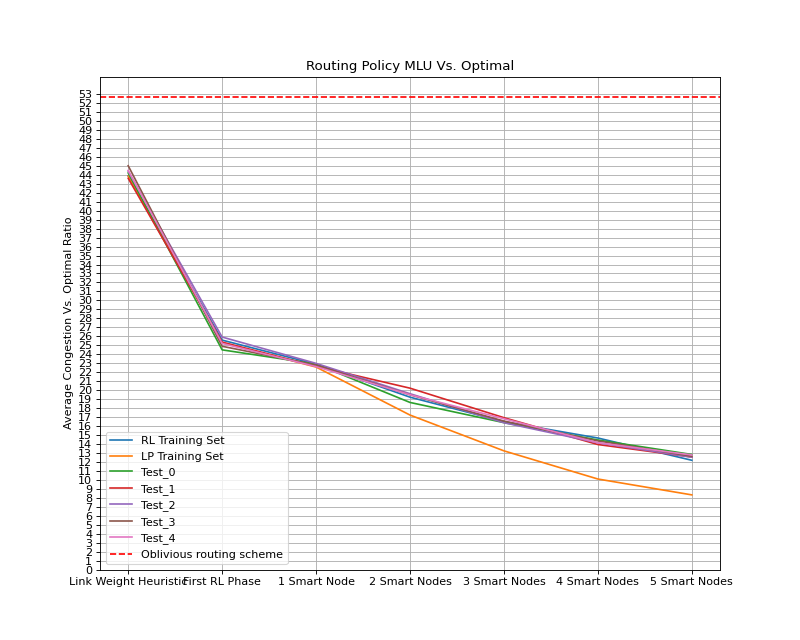
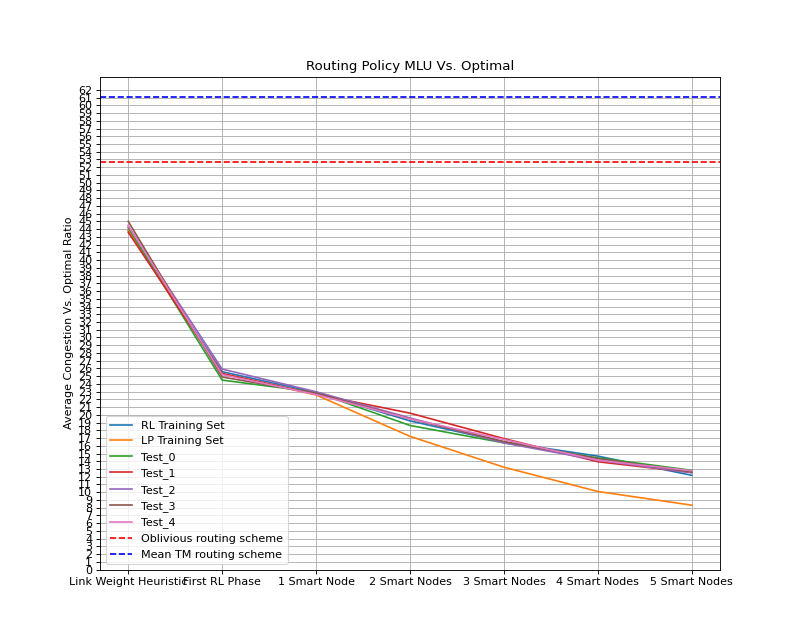
plots

Changed region(s): [[0.0938, 0.125, 0.9062, 0.875]]

diff --git a/Smart_Nodes_Routing/plots/graphs_generator.py b/Smart_Nodes_Routing/plots/graphs_generator.py
@@ -1,6 +1,5 @@
 import numpy as np
 import matplotlib.pyplot as plt
-from scipy.interpolate import make_interp_spline
 
 
 def plot_baselines_graphs(save_file, x_labels, y_labels, y_data, h_lines=None):
@@ -25,8 +24,10 @@ def plot_baselines_graphs(save_file, x_labels, y_labels, y_data, h_lines=None):
 
 
 if __name__ == "__main__":
-    x_labels_4 = ['Link Weight Heuristic', 'First RL Phase', '1 Smart Node', '2 Smart Nodes', '3 Smart Nodes', '4 Smart Nodes']
-    x_labels_5 = ['Link Weight Heuristic', 'First RL Phase', '1 Smart Node', '2 Smart Nodes', '3 Smart Nodes', '4 Smart Nodes', '5 Smart Nodes']
+    x_labels_4 = ['Link Weight Heuristic', 'First RL Phase', '1 Smart Node', '2 Smart Nodes', '3 Smart Nodes',
+                  '4 Smart Nodes']
+    x_labels_5 = ['Link Weight Heuristic', 'First RL Phase', '1 Smart Node', '2 Smart Nodes', '3 Smart Nodes',
+                  '4 Smart Nodes', '5 Smart Nodes']
     y_labels = ["RL Training Set",
                 "LP Training Set",
                 "Test_0",
@@ -35,7 +36,7 @@ if __name__ == "__main__":
                 "Test_3",
                 "Test_4"
                 ]
-    h_lines = [[None, "Oblivious routing scheme", "red"],[None, "Mean TM routing scheme", "blue"]]
+    h_lines = [[None, "Oblivious routing scheme", "red"], [None, "Mean TM routing scheme", "blue"]]
 
     # claranet gravity traffic plot
     h_lines[0][0] = 32.547
@@ -51,7 +52,8 @@ if __name__ == "__main__":
     plot_baselines_graphs(save_file, x_labels_4, y_labels, y_data, h_lines)
 
     # goodnet gravity traffic plot
-    h_lines[0] = 19.130
+    h_lines[0][0] = 19.130
+    h_lines[1][0] = 42.552
     y_data = [(18.295, 12.617, 11.321, 9.787, 9.149, 7.948, 6.519),
               (18.868, 12.506, 10.854, 9.117, 8.310, 5.860, 4.189),
               (17.965, 12.848, 11.476, 10.523, 9.952, 8.427, 6.712),
@@ -63,7 +65,8 @@ if __name__ == "__main__":
     plot_baselines_graphs(save_file, x_labels_5, y_labels, y_data, h_lines)
 
     # scale free 30 gravity traffic plot
-    h_lines[0] = 26.675
+    h_lines[0][0] = 26.675
+    h_lines[1][0] = 34.784
     y_data = [(24.544, 14.920, 14.304, 12.545, 10.125, 9.173),
               (23.749, 13.855, 12.867, 10.499, 8.659, 6.276),
               (24.617, 15.377, 14.546, 12.494, 10.335, 8.999),
@@ -75,7 +78,8 @@ if __name__ == "__main__":
     plot_baselines_graphs(save_file, x_labels_4, y_labels, y_data, h_lines)
 
     # GEANT gravity traffic plot
-    h_lines[0] = 48.530
+    h_lines[0][0] = 48.530
+    h_lines[1][0] = 67.114
     y_data = [(57.549, 14.100, 12.396, 10.434, 10.024, 9.813),
               (55.122, 13.178, 10.533, 8.373, 7.057, 6.860),
               (58.023, 13.732, 12.616, 10.432, 10.003, 9.680),
@@ -87,7 +91,8 @@ if __name__ == "__main__":
     plot_baselines_graphs(save_file, x_labels_4, y_labels, y_data, h_lines)
 
     # China Telecom gravity traffic plot
-    h_lines[0] = 52.701
+    h_lines[0][0] = 52.701
+    h_lines[1][0] = 61.051
     y_data = [(43.888, 25.574, 22.891, 19.217, 16.485, 14.665, 12.183),
               (43.856, 25.299, 22.574, 17.223, 13.234, 10.095, 8.326),
               (44.204, 24.490, 22.907, 18.628, 16.378, 14.441, 12.830),
@@ -99,7 +104,8 @@ if __name__ == "__main__":
     plot_baselines_graphs(save_file, x_labels_5, y_labels, y_data, h_lines)
 
     # claranet bimodal traffic plot
-    h_lines[0] = 14.134
+    h_lines[0][0] = 14.134
+    h_lines[1][0] = 20.256
     y_data = [(9.929, 8.081, 6.727, 5.743, 4.516, 4.327),
               (10.215, 7.454, 6.494, 5.856, 4.530, 4.313),
               (8.970, 7.754, 6.141, 5.319, 4.567, 4.234),
@@ -111,7 +117,8 @@ if __name__ == "__main__":
     plot_baselines_graphs(save_file, x_labels_4, y_labels, y_data, h_lines)
 
     # goodnet bimodal traffic plot
-    h_lines[0] = 2.713
+    h_lines[0][0] = 2.713
+    h_lines[1][0] = 13.939
     y_data = [(3.315, 2.549, 2.496, 1.928, 1.917, 1.549, 0.984),
               (2.956, 2.675, 2.653, 2.093, 1.730, 1.394, 0.755),
               (3.043, 2.495, 2.087, 2.017, 1.628, 1.525, 1.074),
@@ -123,7 +130,8 @@ if __name__ == "__main__":
     plot_baselines_graphs(save_file, x_labels_5, y_labels, y_data, h_lines)
 
     # claranet custom bimodal traffic plot
-    h_lines[0] = 16.368
+    h_lines[0][0] = 16.368
+    h_lines[1][0] = 24.303
     y_data = [(13.392, 11.105, 9.481, 8.303, 5.860, 5.426),
               (11.957, 10.476, 9.253, 8.346, 6.231, 5.388),
               (12.664, 11.320, 8.723, 6.751, 5.988, 4.752),
@@ -135,7 +143,8 @@ if __name__ == "__main__":
     plot_baselines_graphs(save_file, x_labels_4, y_labels, y_data, h_lines)
 
     # goodnet custom bimodal traffic plot
-    h_lines[0] = 4.488
+    h_lines[0][0] = 4.488
+    h_lines[1][0] = 19.378
     y_data = [(6.303, 5.826, 5.289, 4.178, 3.671, 2.630, 2.163),
               (6.841, 6.874, 5.300, 4.044, 3.084, 2.426, 1.887),
               (6.274, 5.822, 5.580, 4.240, 3.866, 3.522, 2.511),
@@ -144,4 +153,43 @@ if __name__ == "__main__":
               (6.916, 6.147, 5.187, 4.596, 3.813, 3.694, 2.815),
               (5.980, 5.126, 5.532, 4.202, 3.826, 3.560, 2.282)]
     save_file = 'goodnet_custom_bimodal.png'
+    plot_baselines_graphs(save_file, x_labels_5, y_labels, y_data, h_lines)
+
+    # scale free 30 custom bimodal traffic plot
+    h_lines[0][0] = 15.089
+    h_lines[1][0] = 7.809
+    y_data = [(3.481, 3.193, 3.128, 2.529, 2.236, 1.916),
+              (3.329, 3.199, 2.539, 1.902, 1.362, 0.886),
+              (3.559, 3.145, 2.822, 2.392, 2.189, 1.954),
+              (3.245, 2.793, 2.660, 2.475, 2.250, 1.987),
+              (3.396, 3.024, 2.849, 2.491, 2.376, 1.976),
+              (3.432, 2.919, 2.675, 2.426, 2.361, 1.937),
+              (3.135, 2.806, 2.626, 2.443, 2.084, 1.932)]
+    save_file = 'sf30_custom_bimodal.png'
+    plot_baselines_graphs(save_file, x_labels_4, y_labels, y_data, h_lines)
+
+    # # GEANT custom bimodal traffic plot
+    h_lines[0][0] = 1.169
+    h_lines[1][0] = 28.524
+    y_data = [(22.029, 21.349, 18.142, 12.681, 8.231, 0.077),
+              (23.050, 21.645, 17.612, 11.529, 7.722, 0.002),
+              (20.813, 22.444, 17.247, 11.911, 7.727, 0.045),
+              (21.925, 21.725, 18.091, 11.707, 7.321, 0.041),
+              (21.797, 22.364, 18.374, 11.798, 7.861, 0.096),
+              (21.386, 21.078, 18.203, 11.708, 7.870, 0.033),
+              (22.158, 22.971, 17.826, 12.408, 7.322, 0.059)]
+    save_file = 'geant_custom_bimodal.png'
+    plot_baselines_graphs(save_file, x_labels_4, y_labels, y_data, h_lines)
+
+    # China Telecom custom bimodal traffic plot
+    h_lines[0][0] = 0.047
+    h_lines[1][0] = 12.725
+    y_data = [(1.240, 0.723, 0.535, 0.106, 0.0099, 0.194, 0.553),
+              (1.417, 0.672, 0.223, 0.142, 0.1303, 0.097, 0.010),
+              (1.343, 0.628, 0.229, 0.053, 0.0066, 0.493, 0.604),
+              (1.136, 0.373, 0.177, 0.035, 0.6106, 0.432, 0.557),
+              (1.439, 0.682, 0.292, 0.057, 0.3127, 0.396, 0.229),
+              (1.358, 0.496, 0.325, 0.094, 0.0932, 0.153, 0.743),
+              (1.205, 0.610, 0.511, 0.070, 0.3433, 0.047, 0.270)]
+    save_file = 'china_telecom_custom_bimodal.png'
     plot_baselines_graphs(save_file, x_labels_5, y_labels, y_data, h_lines)
